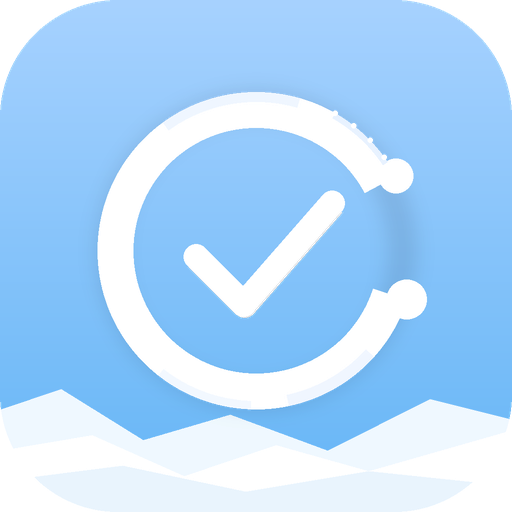
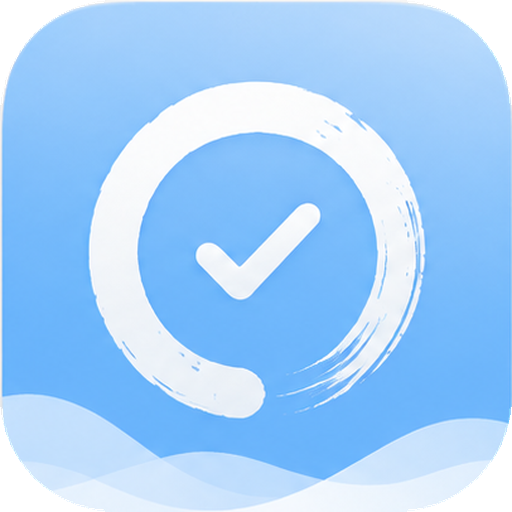
Update ZenTask branding assets
Replace previous brand image set with new version:
- All PWA icons updated in-place (icon-192x192, icon-512x512,
  maskable variants, apple-touch-icon, favicons)
- Add icon-1024x1024.png high-res source and extracted source files
- Remove deleted zentask-mark.svg and zentask-wordmark.svg
- Update index.html: remove SVG favicon link (file deleted), add
  favicon-48x48.png link, point og:image and twitter:image to
  og-image-1200x630-cropped.png (proper 1200x630 OG ratio)
- Update vite.config.ts includeAssets: swap SVG for favicon-48x48.png

diff --git a/index.html b/index.html
@@ -9,7 +9,7 @@
 
     <!-- Favicons -->
     <link rel="icon" href="/favicon.ico" sizes="any" />
-    <link rel="icon" type="image/svg+xml" href="/zentask-mark.svg" />
+    <link rel="icon" type="image/png" sizes="48x48" href="/favicon-48x48.png" />
     <link rel="icon" type="image/png" sizes="32x32" href="/favicon-32x32.png" />
     <link rel="icon" type="image/png" sizes="16x16" href="/favicon-16x16.png" />
     <link rel="apple-touch-icon" href="/apple-touch-icon.png" />
@@ -18,13 +18,13 @@
     <meta property="og:title" content="ZenTask" />
     <meta property="og:description" content="Focus. Plan. Complete. Peace of mind." />
     <meta property="og:type" content="website" />
-    <meta property="og:image" content="/og-image.png" />
+    <meta property="og:image" content="/og-image-1200x630-cropped.png" />
 
     <!-- Twitter / X -->
     <meta name="twitter:card" content="summary_large_image" />
     <meta name="twitter:title" content="ZenTask" />
     <meta name="twitter:description" content="Focus. Plan. Complete. Peace of mind." />
-    <meta name="twitter:image" content="/twitter-image.png" />
+    <meta name="twitter:image" content="/og-image-1200x630-cropped.png" />
 
     <!-- Fonts -->
     <link rel="preconnect" href="https://fonts.googleapis.com" />

diff --git a/vite.config.ts b/vite.config.ts
@@ -14,7 +14,7 @@ export default defineConfig({
         'favicon.ico',
         'favicon-16x16.png',
         'favicon-32x32.png',
-        'zentask-mark.svg',
+        'favicon-48x48.png',
         'apple-touch-icon.png',
       ],
       manifest: {

diff --git a/public/README.md b/public/README.md
@@ -1,8 +1,21 @@
-# Zentask Option 1 Public Assets
+# Zentask Option 1 — Exact Extracted Assets
 
-Copy all files in this folder into your app's `public/` directory.
+This pack uses the actual Option 1 image you selected as the source.
 
-## Recommended `index.html` tags
+Important:
+- `icon-192x192.png`, `icon-512x512.png`, and `icon-1024x1024.png` are extracted from the selected blue app icon.
+- `favicon.ico` and favicon PNGs are extracted from the selected light favicon preview.
+- `apple-touch-icon.png` is extracted from the selected Apple touch icon preview.
+- `og-image.png` and `twitter-image.png` preserve the selected social card design and proportions.
+- `og-image-1200x630-cropped.png` is included as an optional strict social-card ratio version.
+
+Copy the public files into:
+
+```bash
+~/GitHub/zentask/public
+```
+
+Recommended `index.html` tags:
 
 ```html
 <link rel="icon" href="/favicon.ico" sizes="any" />
@@ -23,22 +36,3 @@ Copy all files in this folder into your app's `public/` directory.
 <meta name="twitter:description" content="Focus. Plan. Complete. Peace of mind." />
 <meta name="twitter:image" content="/twitter-image.png" />
 ```
-
-## Included
-
-- favicon.ico
-- favicon-16x16.png
-- favicon-32x32.png
-- favicon-48x48.png
-- apple-touch-icon.png
-- icon-192x192.png
-- icon-512x512.png
-- maskable-icon-192x192.png
-- maskable-icon-512x512.png
-- og-image.png
-- twitter-image.png
-- feature-graphic.png
-- preview-option-1.png
-- zentask-mark.svg
-- zentask-wordmark.svg
-- site.webmanifest
